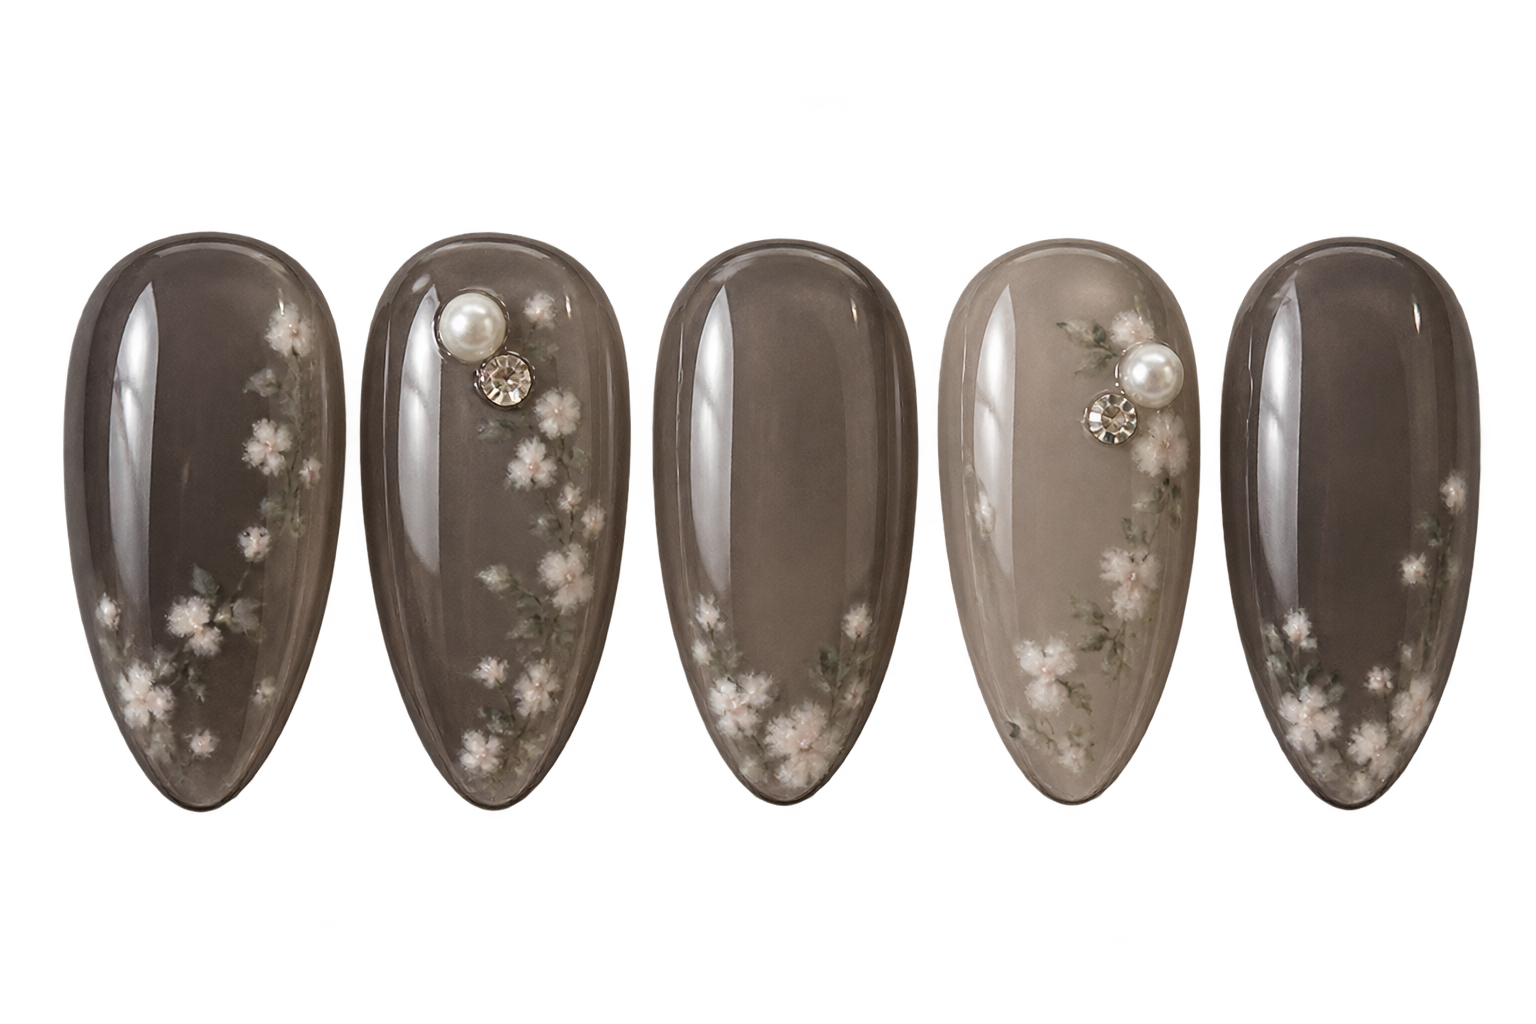
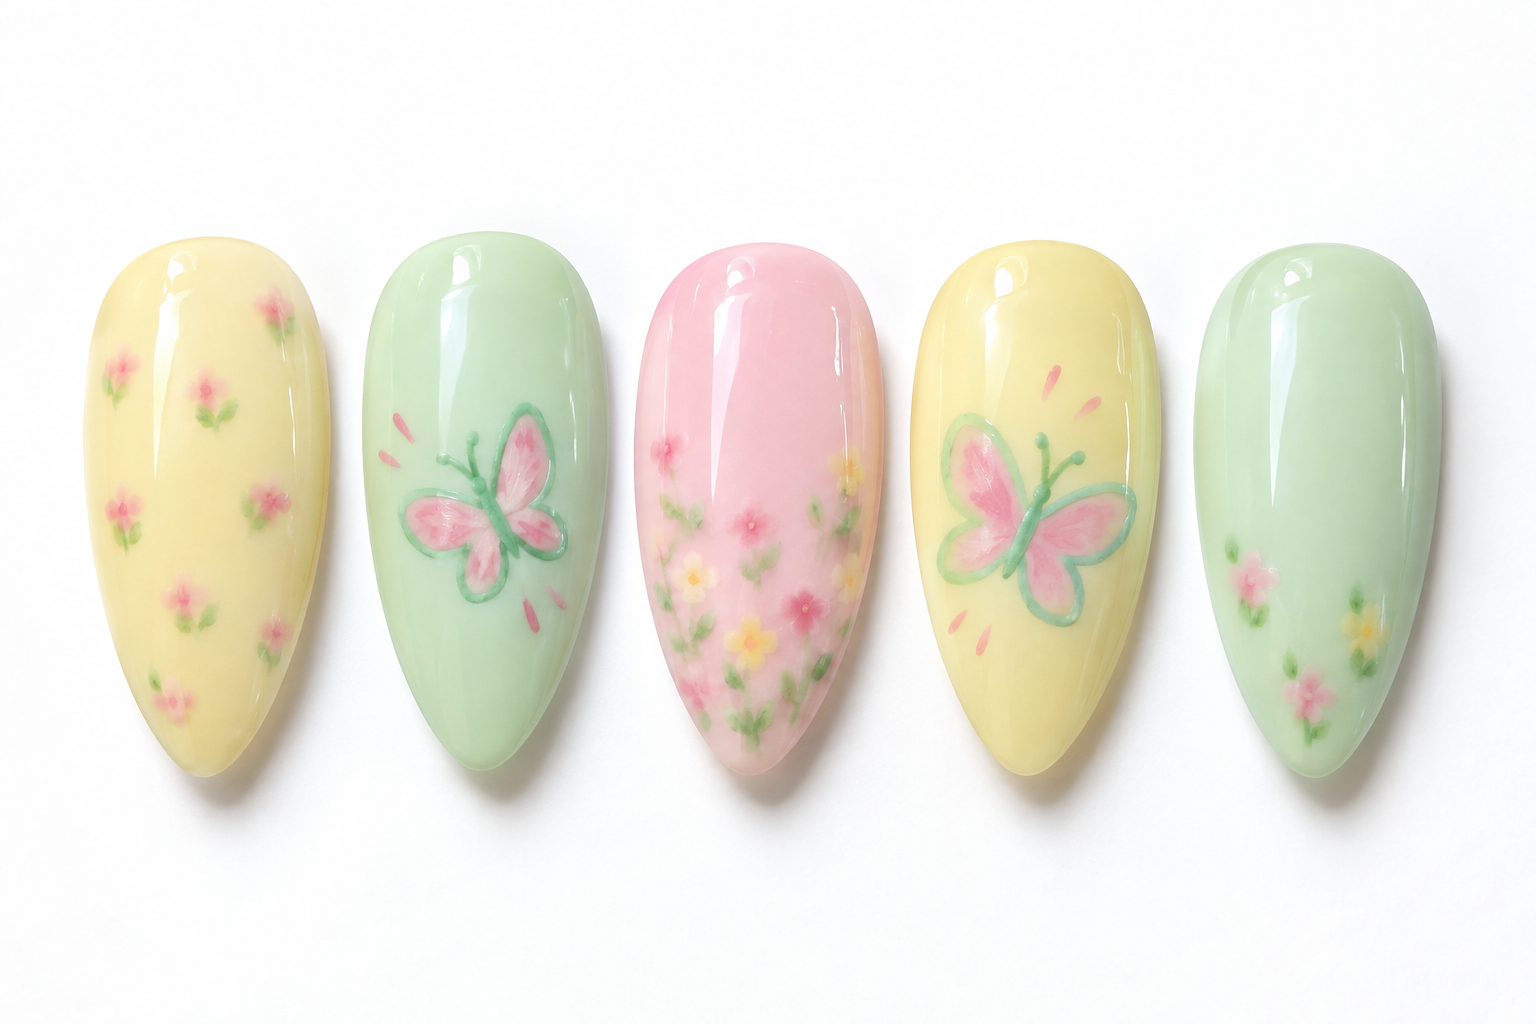
fix: 디자인 채팅 선택지 툴팁 예시 사진을 미리 받아 두고, 옮길 때 이전 사진이 남지 않게 하기
- 분위기/디자인 타입/모티프 단계가 열리면 그 단계의 예시 사진을 미리 받아 둠 — 호버한 뒤에 받기 시작하면
  사진(장당 1~2MB)이 뜨기까지 빈 칸이 잠깐 보였음 (Image 객체를 들고 있어 브라우저 메모리 캐시에 남김)
- 옆 옵션으로 바로 옮기면 툴팁의 <img> src만 바뀌어 새 사진을 다 받을 때까지 이전 사진이 보이던 문제 —
  사진마다 key를 달아 <img>를 새로 만듦
- 모티프 예시 사진(플로럴, 리본) 교체

diff --git a/Frontend/src/features/nail-design/hooks/useNailDesignChatPage.ts b/Frontend/src/features/nail-design/hooks/useNailDesignChatPage.ts
@@ -37,6 +37,7 @@ import { getNailShape, type NailShapeId } from '@/shared/constants/nailShapes'
 import {
     INITIAL_PREFERENCES,
     PREFERENCE_OPTIONS,
+    PREFERENCE_OPTION_INFO,
     PREFERENCE_SECTION_LABELS,
     type NailDesignPreferences,
     type PreferenceKey,
@@ -596,6 +597,17 @@ type UseNailDesignChatPageParams = {
 // 채팅 상태를 서버에 저장하기까지 기다리는 시간 — 그 사이에 또 바뀌면 마지막 상태만 한 번 저장한다
 const SAVE_DEBOUNCE_MS = 700
 
+// 선택지 툴팁 예시 사진을 미리 받아 둔 Image 객체들. 객체를 들고 있어야 브라우저 메모리 캐시에 남아,
+// 툴팁의 <img>가 같은 주소를 쓰면 다시 받지 않고 첫 프레임부터 바로 그린다.
+const preloadedOptionImages = new Map<string, HTMLImageElement>()
+
+const preloadOptionImage = (src: string) => {
+    if (preloadedOptionImages.has(src)) return
+    const img = new Image()
+    img.src = src
+    preloadedOptionImages.set(src, img)
+}
+
 export function useNailDesignChatPage({
     initialSnapshot,
     regenerate,
@@ -760,6 +772,16 @@ export function useNailDesignChatPage({
     useEffect(() => {
         setTooltipAnchor(null)
         setPinnedTooltipKey(null)
+    }, [activeQuickReply?.id])
+
+    // 분위기/디자인 타입/모티프 단계가 열리면 그 단계의 예시 사진을 미리 받아 둔다.
+    // 호버한 뒤에야 받기 시작하면 사진(장당 1~2MB)이 뜨기까지 빈 칸이 잠깐 보인다.
+    useEffect(() => {
+        const id = activeQuickReply?.id
+        if (!id?.startsWith('pref-')) return
+        const infos = PREFERENCE_OPTION_INFO[id.slice(5) as PreferenceKey]
+        if (!infos) return
+        Object.values(infos).forEach((info) => preloadOptionImage(info.image))
     }, [activeQuickReply?.id])
 
     // 스크롤/리사이즈가 일어나면 앵커 위치가 어긋나므로 열려 있던 툴팁을 닫는다.

diff --git a/Frontend/src/features/nail-design/components/DesignChatConversation.tsx b/Frontend/src/features/nail-design/components/DesignChatConversation.tsx
@@ -1159,7 +1159,10 @@ export function DesignChatConversation(props: DesignChatConversationProps) {
                         role="tooltip"
                     >
                         {tooltipAnchor.info.image && !tooltipImgError ? (
+                            // 옆 옵션으로 바로 옮기면 툴팁이 닫히지 않고 src만 바뀌는데, 그러면 브라우저가 새 사진을
+                            // 다 받을 때까지 이전 사진을 계속 그린다. 사진마다 key를 달아 <img>를 새로 만든다.
                             <img
+                                key={tooltipAnchor.info.image}
                                 src={tooltipAnchor.info.image}
                                 alt=""
                                 className="design-chat__option-tooltip-img"
